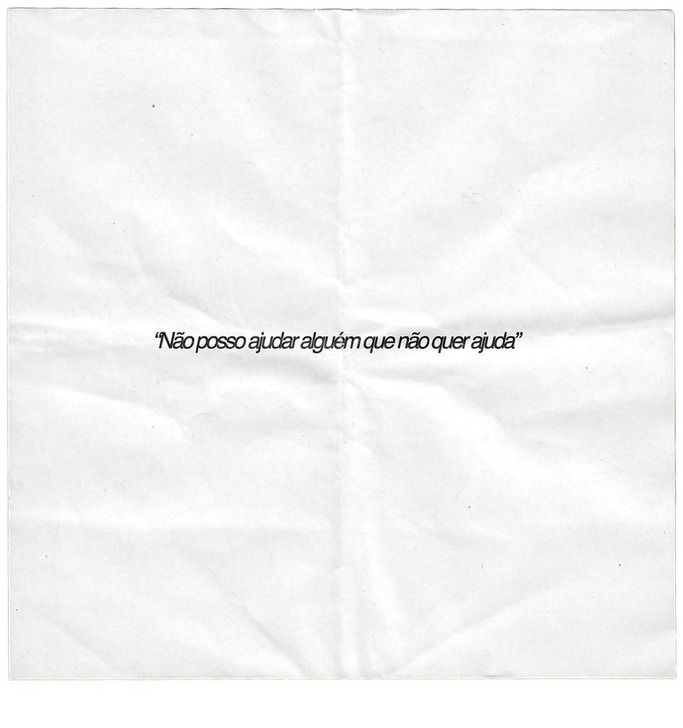
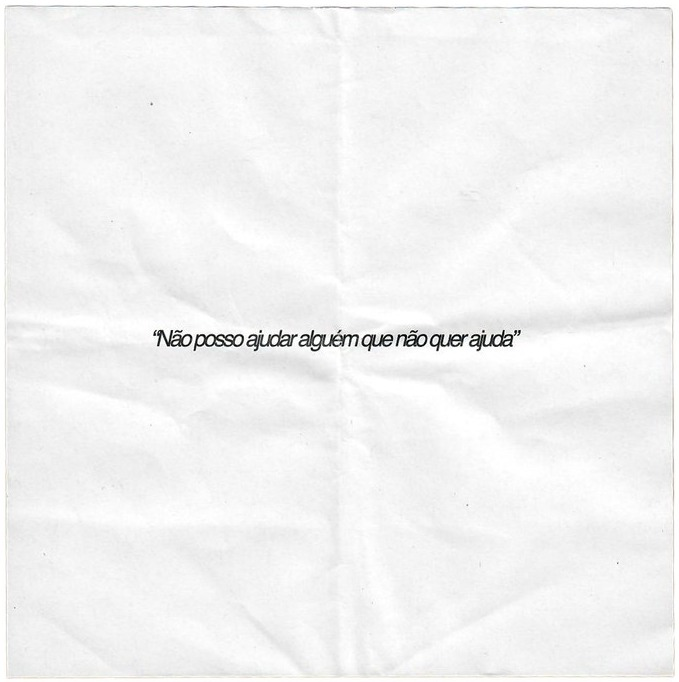
Napkins: tight crop, normal flow layout — napkin, caption, gap, repeat

diff --git a/index.html b/index.html
@@ -261,20 +261,18 @@ html, body {
   color: #ccc; margin-bottom: 20px; padding-bottom: 10px;
   border-bottom: 0.5px solid #ececec; display: block;
 }
-#info-panel-photos { display: flex; flex-direction: column; gap: 0; }
+#info-panel-photos { display: flex; flex-direction: column; gap: 20px; }
 #info-panel-photos img {
   width: 100%; height: auto; display: block;
   opacity: 0; transform: translateY(12px);
   transition: opacity 0.5s ease, transform 0.5s cubic-bezier(0.22,1,0.36,1);
 }
 #info-panel-photos img.loaded { opacity: 1; transform: translateY(0); }
-.bts-photo-wrap { position: relative; }
+.bts-photo-wrap { display: flex; flex-direction: column; gap: 5px; }
 .bts-caption {
-  position: absolute; top: 93%; left: 0; right: 0;
   font-size: 11px; color: #888; line-height: 1.5;
   letter-spacing: 0.02em; font-style: italic;
-  padding: 0 8px; text-align: center;
-  pointer-events: none;
+  text-align: center; margin: 0; padding: 0;
 }
 #project-image-prev {
   display: block;
